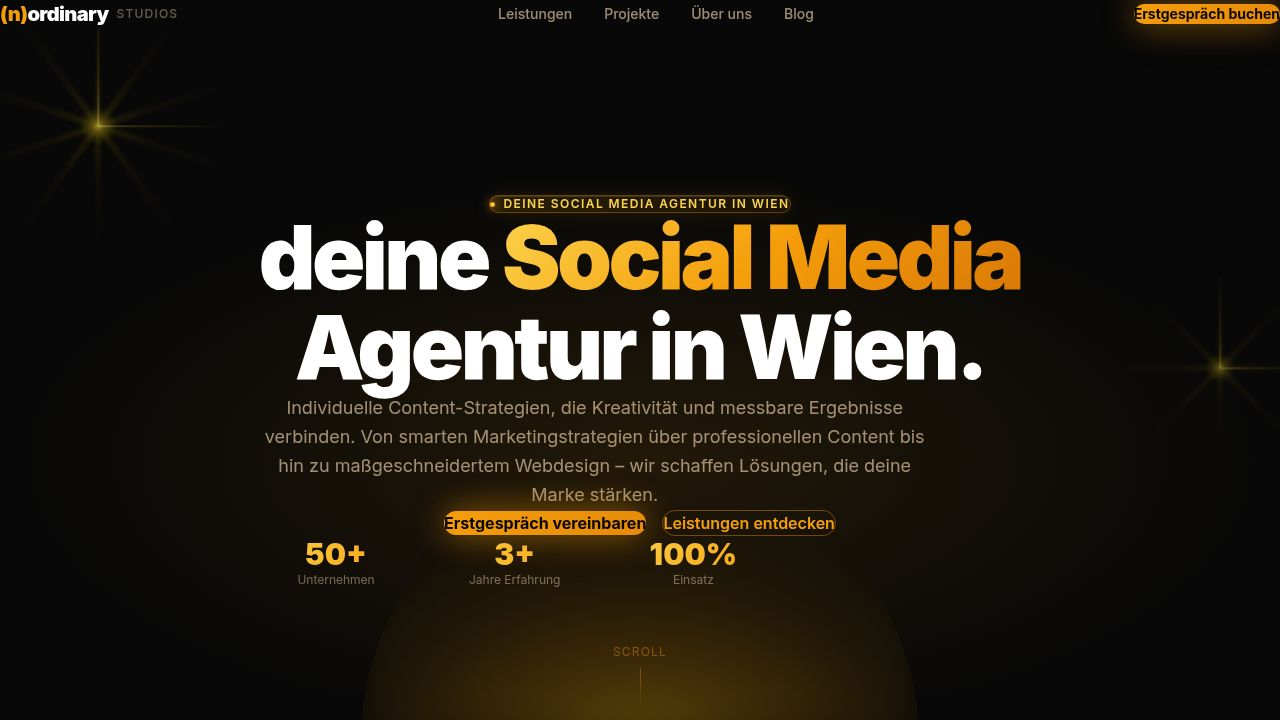
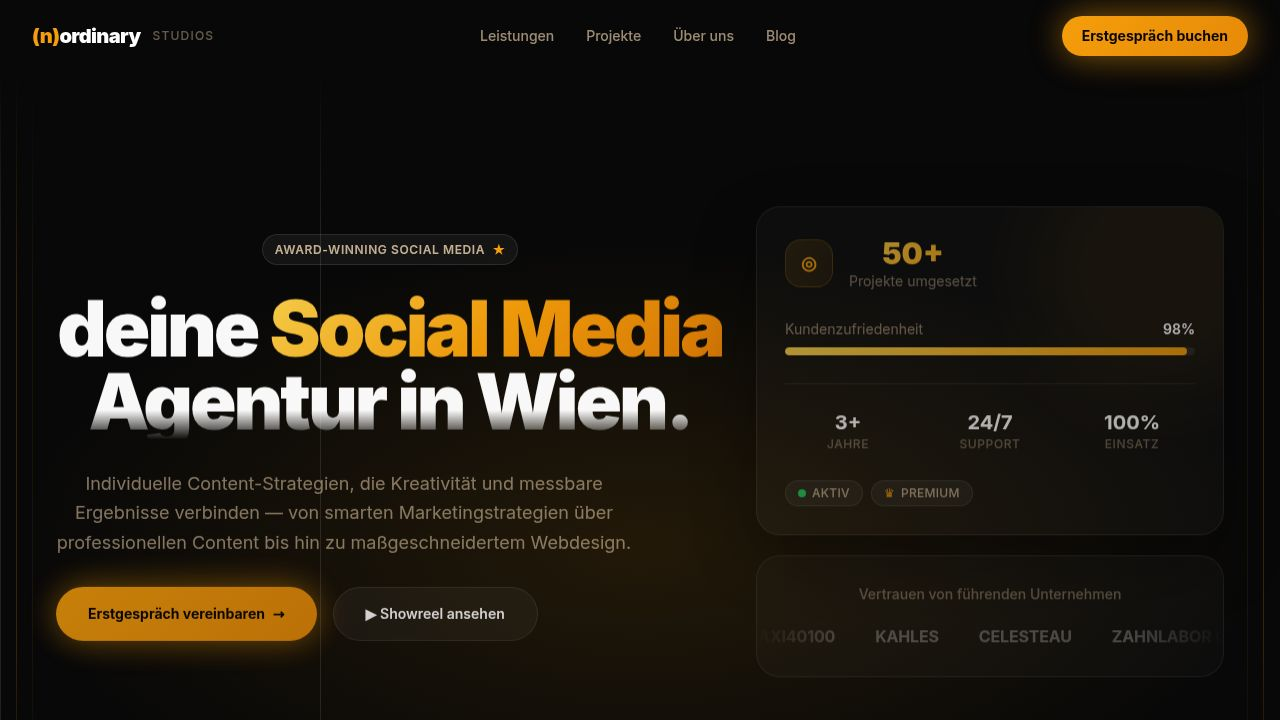
Update website's hero and card sections to display animations
Replace UnicornScene component with a custom UnicornEmbed component, dynamically loading the SDK and managing scene lifecycle with useEffect, to fix rendering issues and ensure proper WebGL animation display.

Replit-Commit-Author: Agent
Replit-Commit-Session-Id: 7b21b653-2e6b-49ad-aeca-34522f4628cd
Replit-Commit-Checkpoint-Type: full_checkpoint
Replit-Commit-Event-Id: b3d9b998-75dc-4bab-8dc3-6db8c64062a9
Replit-Commit-Screenshot-Url: https://storage.googleapis.com/screenshot-production-us-central1/e75a25af-5a05-45a7-9b7b-06a37cf978d3/7b21b653-2e6b-49ad-aeca-34522f4628cd/za7EgBx
Replit-Helium-Checkpoint-Created: true

diff --git a/artifacts/nordinary-site/src/pages/Home.tsx b/artifacts/nordinary-site/src/pages/Home.tsx
@@ -1,6 +1,35 @@
 import { useState, useEffect, useRef } from "react";
 import { motion } from "framer-motion";
-import UnicornScene from "unicornstudio-react";
+
+const UNICORN_SDK = "https://cdn.jsdelivr.net/gh/hiunicornstudio/unicornstudio.js@v2.1.12/dist/unicornStudio.umd.js";
+
+let sdkLoaded = false;
+function loadSdk(): Promise<void> {
+  if (sdkLoaded || (window as any).UnicornStudio) { sdkLoaded = true; return Promise.resolve(); }
+  return new Promise((resolve, reject) => {
+    const s = document.createElement("script");
+    s.src = UNICORN_SDK;
+    s.onload = () => { sdkLoaded = true; resolve(); };
+    s.onerror = reject;
+    document.head.appendChild(s);
+  });
+}
+
+function UnicornEmbed({ projectId, className = "" }: { projectId: string; className?: string }) {
+  const ref = useRef<HTMLDivElement>(null);
+  useEffect(() => {
+    let scene: any = null;
+    loadSdk().then(() => {
+      const US = (window as any).UnicornStudio;
+      if (!ref.current || !US?.addScene) return;
+      US.addScene({ element: ref.current, projectId, scale: 1, dpi: 1.5, fps: 60 })
+        .then((s: any) => { scene = s; })
+        .catch(() => {});
+    });
+    return () => { if (scene?.destroy) scene.destroy(); };
+  }, [projectId]);
+  return <div ref={ref} className={className} style={{ width: "100%", height: "100%" }} />;
+}
 
 const AMBER = "#F59E0B";
 const AMBER_DARK = "#D97706";
@@ -578,12 +607,7 @@ export default function Home() {
         </div>
         {/* UnicornScene — full hero background */}
         <div className="absolute inset-0 z-0 pointer-events-none" style={{ overflow: "hidden" }}>
-          <UnicornScene
-            projectId="vARzVsLoSZuEjXCk2KzN"
-            sdkUrl="https://cdn.jsdelivr.net/gh/hiunicornstudio/unicornstudio.js@v2.1.12/dist/unicornStudio.umd.js"
-            width="100%"
-            height="100%"
-          />
+          <UnicornEmbed projectId="vARzVsLoSZuEjXCk2KzN" />
           {/* Cover the Unicorn Studio watermark that renders bottom-right */}
           <div
             style={{
@@ -1561,12 +1585,7 @@ export default function Home() {
         >
           {/* Unicorn Studio WebGL scene fills the card background */}
           <div className="absolute inset-0 z-0">
-            <UnicornScene
-              projectId="UC9oKoDWjxF2spKEmVE1"
-              sdkUrl="https://cdn.jsdelivr.net/gh/hiunicornstudio/unicornstudio.js@v2.1.12/dist/unicornStudio.umd.js"
-              width="100%"
-              height="100%"
-            />
+            <UnicornEmbed projectId="UC9oKoDWjxF2spKEmVE1" />
           </div>
           {/* Dark overlay so text stays readable */}
           <div